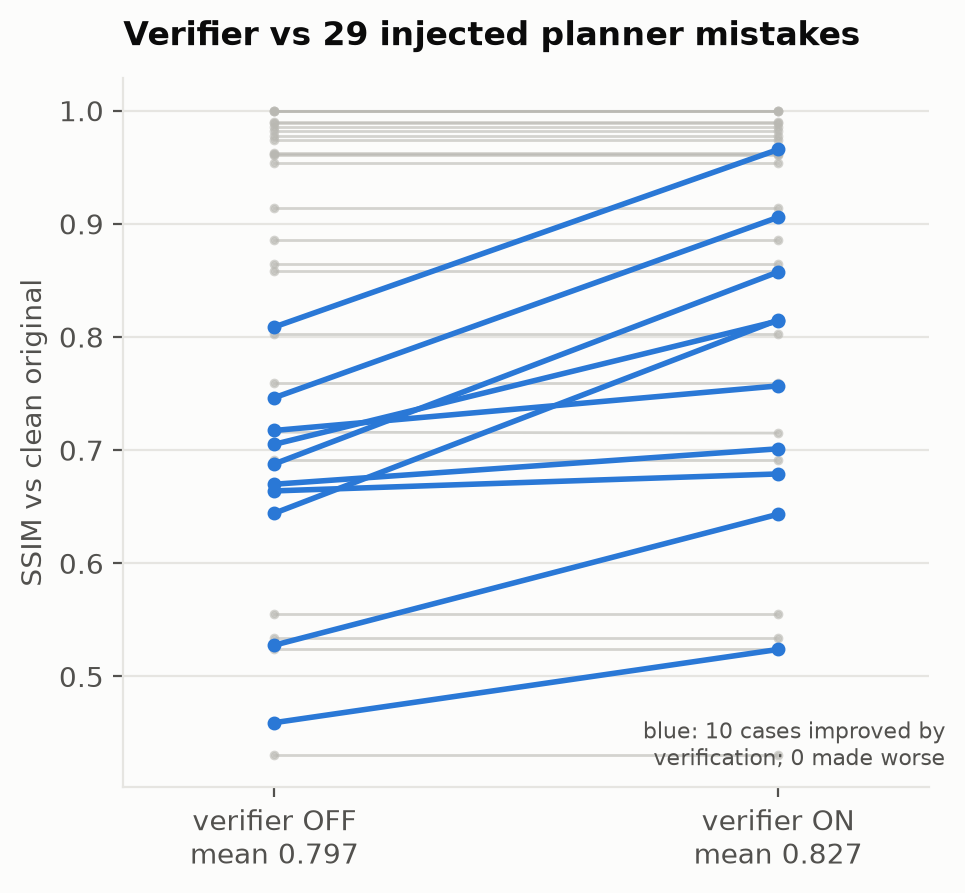
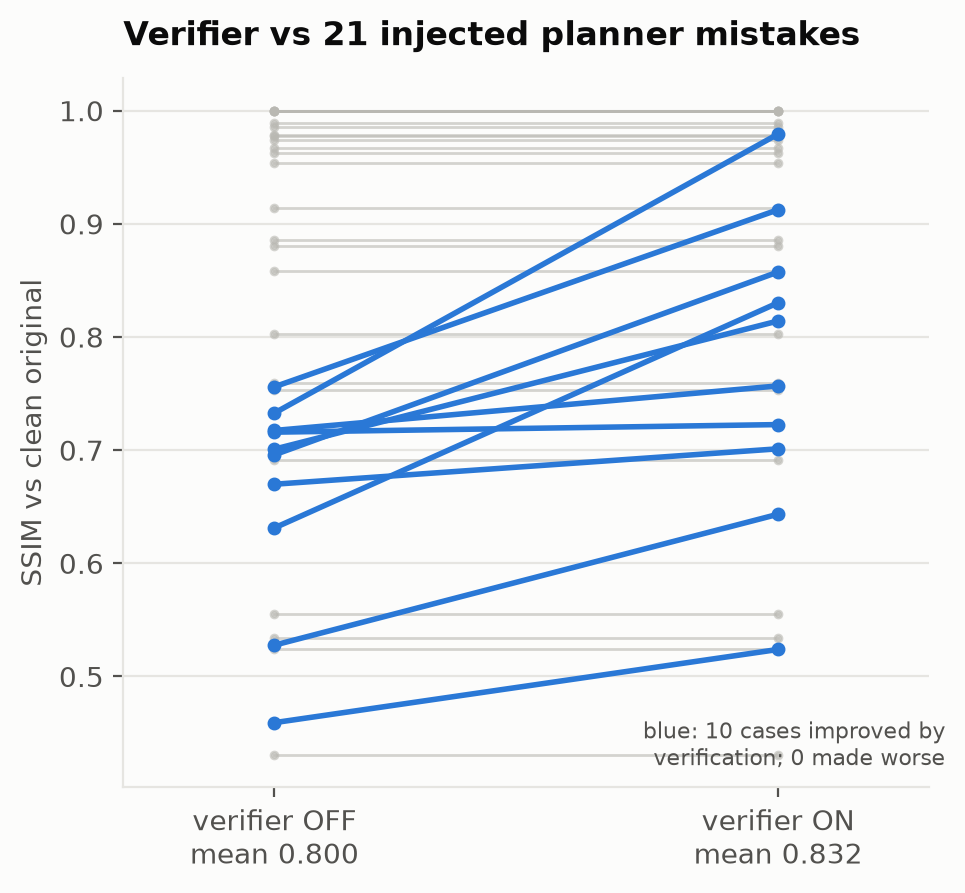
Update report, README, traces, video script and figures for confident-marks results
New numbers: SSIM 0.822 / PSNR 29.4 automatic, 0.834 / 29.5 with human;
undamaged control 1.000 with no steps; no-harm 97%, task success 83%;
verifier ablation 0.832 vs 0.800 (21 mistakes, 10 helped, 0 hurt);
105 simulated LLM failures, 35/35 complete. Report gains section 6.5 on the
false-detection fix (including the failed first attempt); limitations now
state that the cutoff is tuned on synthetic high-contrast marks.

diff --git a/docs/REPORT.md b/docs/REPORT.md
@@ -18,15 +18,15 @@ to check that the repair helped without doing harm. When a repair could change
 what the photo really shows, it **asks a person** instead of guessing.
 
 On 35 seeded test cases (5 public-domain images × 7 damage types), ReVive raises
-mean SSIM against the clean original from 0.680 (damaged) to **0.818**, where a
+mean SSIM against the clean original from 0.680 (damaged) to **0.822**, where a
 naive "run every filter once" pipeline drops it to 0.672. On undamaged photos
-ReVive leaves the image essentially untouched (**SSIM 0.994**), while the naive
-pipeline drops it to 0.75.
+ReVive applies no steps at all (**SSIM 1.000**), while the naive pipeline drops
+it to 0.75.
 
-When a test planner injects 29 over-strong decisions, the verifier rejects the
-harmful steps and recovers almost all the lost quality: mean SSIM is 0.797 with
-the verifier off, **0.827** with it on, and 0.830 with no mistakes at all. Across
-114 simulated LLM failures, every restoration still completed.
+When a test planner injects 21 over-strong decisions, the verifier rejects the
+harmful steps and recovers almost all the lost quality: mean SSIM is 0.800 with
+the verifier off, **0.832** with it on, and 0.834 with no mistakes at all. Across
+105 simulated LLM failures, every restoration still completed.
 
 ## 2. Problem and users
 
@@ -56,7 +56,7 @@ Its design rules come from how a restorer works:
 
 | measurement | method (OpenCV 5) | what it signals |
 |---|---|---|
-| `scratch_coverage` | `absdiff(gray, medianBlur(gray, 7))`, noise-scaled threshold, `connectedComponentsWithStats` shape rules (long and ≤ 2.5 px wide = scratch; small round = dust), `dilate` | share of the photo covered by thin marks; also yields the repair mask |
+| `scratch_coverage` | `absdiff(gray, medianBlur(gray, 7))`, noise-scaled threshold, `connectedComponentsWithStats` shape rules (long and ≤ 2.5 px wide = scratch; small round = dust), `dilate`. Only **confident** marks count: those standing out ≥ 4.5× from the local texture (`blur`-based local std of the median image) | share of the photo covered by confident marks; the full mask is what gets repaired |
 | `noise_sigma` | Immerkaer's estimator via `filter2D` | film grain |
 | `black_point` | 1st percentile of L in `cvtColor(BGR2LAB)` | fading (lifted blacks) |
 | `highlight_cast` | LAB a/b offset of the brightest 10% | ageing tint |
@@ -185,8 +185,8 @@ the account, end-to-end latency through CloudFront.
 |---|---|---|
 | damaged input | 0.680 | 25.1 |
 | naive fixed pipeline | 0.672 | 18.8 |
-| **ReVive, automatic** | **0.818** | **27.3** |
-| ReVive + human answers | 0.830 | 27.5 |
+| **ReVive, automatic** | **0.822** | **29.4** |
+| ReVive + human answers | 0.834 | 29.5 |
 
 ![quality by damage type](figures/ssim_by_profile.png)
 
@@ -195,7 +195,7 @@ pipeline (0.51) beats automatic ReVive (0.43), and ReVive only ties it with
 human approval (0.51). The agent refuses to inpaint about 10% of the photo on
 its own, which is by design. Even approved, its gentler repairs leave more
 damage than an aggressive filter chain. On **undamaged** photos ReVive applies
-almost nothing (0.994), while the naive pipeline does visible harm (0.75).
+nothing at all (1.000), while the naive pipeline does visible harm (0.75).
 
 ### 6.2 Agentic behaviour (`eval/agentic.py`)
 
@@ -203,9 +203,11 @@ almost nothing (0.994), while the naive pipeline does visible harm (0.75).
 |---|---|
 | runs completed automatically | 26 / 35 (74%) |
 | escalated to a human | 9 / 35 (5 mask approvals, 4 colour questions) |
-| task success (no harm vs input and final damage score ≤ 1) | 77% |
-| runs where re-measurement found more damage after a step | 20 / 35 (see 7, false positives) |
-| steps kept / rejected (normal planner) | 70 / 0 |
+| no harm (SSIM not lower than the damaged input) | 97% |
+| task success (no harm and final damage score ≤ 1) | 83% |
+| runs where re-measurement found more damage after a step | 19 / 35 (see 7) |
+| inpaint steps on photos with no scratches | 0 of 10 |
+| steps kept / rejected (normal planner) | 61 / 0 |
 
 ![outcomes](figures/outcomes.png)
 
@@ -216,17 +218,17 @@ the settings with over-strong ones on half of its first attempts:
 - inpaint radius 9 with Navier-Stokes;
 - full-strength colour correction.
 
-It injected 29 mistakes over the same 35 cases.
+It injected 21 mistakes over the same 35 cases.
 
 | | mean SSIM | photos not harmed |
 |---|---|---|
-| verifier off | 0.797 | 85.7% |
-| **verifier on** | **0.827** | **91.4%** |
-| reference: no mistakes | 0.830 | 91.4% |
+| verifier off | 0.800 | 91.4% |
+| **verifier on** | **0.832** | **97.1%** |
+| reference: no mistakes | 0.834 | 97.1% |
 
 ![verifier ablation](figures/verifier_ablation.png)
 
-- The verifier rejected 13 steps, and every gentler retry succeeded.
+- The verifier rejected 12 steps, and every gentler retry succeeded.
 - It improved 10 cases and made none worse.
 - These checks were added *because* this experiment exposed a gap. The first
   version of the verifier (target improved + structure) accepted every injected
@@ -234,7 +236,7 @@ It injected 29 mistakes over the same 35 cases.
 
 **Failure handling 2: the LLM fails.** The real `BedrockPlanner` was run against
 a fake client that returned broken JSON, prose, unknown tools and blocked tools,
-or timed out (114 failures across 35 runs). All 35 runs completed. Every result
+or timed out (105 failures across 35 runs). All 35 runs completed. Every result
 was pixel-identical to the heuristic planner's, and every fallback is labelled
 in the trace.
 
@@ -255,10 +257,13 @@ re-measurement):
 
 | step | median latency |
 |---|---|
-| colour | 27 ms |
-| tones | 33 ms |
-| inpainting | 27 ms |
-| denoise | 456 ms (p95 1.0 s) |
+| colour | 16 ms |
+| tones | 16 ms |
+| inpainting | 14 ms |
+| denoise | 163 ms (p95 178 ms) |
+
+Measured on an Apple M-series laptop; an earlier run on the same machine under
+load measured 2–3× higher. The Graviton numbers are in 6.4.
 
 Non-local-means denoising dominates the run time.
 
@@ -281,7 +286,33 @@ A note before the numbers: stock OpenCV 5 wheels already include KleidiCV, and
 denoising dominates ReVive's runtime. So any COOL gain depends on how well it
 accelerates `fastNlMeansDenoisingColored`, and we will report whatever we measure.
 
-### 6.5 What we tried that did not work
+### 6.5 Fixing false scratch detections
+
+The first full evaluation showed that thin real detail was being flagged as
+scratches: 9 of 19 kept inpainting steps were on photos with no marks (a launch
+tower lattice, tripod legs, a cup rim). We separated two questions:
+- **whether** to repair, decided from *confident* marks only;
+- **what** to repair, using the full mask, so recall is unchanged.
+
+A mark is confident when it stands out strongly from the texture right around it.
+Per pixel, that is `|image − median| / (local std of the median image + 2)`,
+averaged over the mark and required to be ≥ 4.5.
+
+| | before | after |
+|---|---|---|
+| mean SSIM, automatic / with human | 0.818 / 0.830 | **0.822 / 0.834** |
+| mean PSNR, automatic | 27.3 dB | **29.4 dB** |
+| undamaged control | 0.994 | **1.000** |
+| inpaint steps on photos with no marks | 9 of 19 | **0 of 10** |
+| aged/scratched cases still repaired | 10 / 10 | 10 / 10 |
+
+Our first version measured contrast against a ring around the whole mark. That
+hid long scratches that cross many regions, and the flagship demo photo stopped
+being repaired. Measuring per pixel fixed it. Cutoffs from 4.0 to 5.0 give
+identical results, and 6.0 starts missing real scratches, so 4.5 sits in the
+middle of that plateau.
+
+### 6.6 What we tried that did not work
 
 **Joining scratch fragments with `HoughLinesP`.** The idea was to recover
 scratches that break up over similar tones. It found texture on clean photos
@@ -290,14 +321,13 @@ gained +0.004 on heavy damage, so it was not shipped.
 
 ## 7. Limitations
 
-- **Thin real detail is mistaken for scratches.** Launch-tower lattice, tripod
-  legs and cup rims all trigger it.
-  - 9 of the 19 kept inpainting steps are on photos whose damage profile adds no
-    marks.
-  - 11 of 16 "revealed scratches" events are on such photos.
-  - Each change is small (the control still scores 0.994), but it is a real false
-    positive. "Revealed" in the trace means "measured higher after this step",
-    not "verified hidden damage".
+- **The scratch cutoff is tuned on synthetic marks.** Our seeded scratches are
+  high-contrast. Faint real scratches in busy texture may not count as
+  confident, and then they are not repaired. Real prints are needed to check this.
+- **"Revealed" means "measured higher after this step"**, not "verified hidden
+  damage". 6 of the 8 "revealed scratches" events happen on photos with no marks.
+  Since 6.5 they no longer trigger a repair, but the badge still appears in the
+  trace.
 - **Denoising softens texture** (wood grain, fur) while still passing the
   verifier.
 - **Heavy damage:** the conservative agent restores less than an aggressive

diff --git a/docs/trace-example.md b/docs/trace-example.md
@@ -10,14 +10,16 @@ by clicking the **Faded portrait** and **Warm café table** samples.
 
 | step | planner's reason (from OpenCV numbers) | verifier | what the re-measurement changed |
 |---|---|---|---|
-| 0 | perceive: `highlight_cast 13.6`, `black_point 0.239`, `noise_sigma 7.1`, `scratch_coverage 0.89%` | | starting plan: colour, then tones |
+| 0 | perceive: `highlight_cast 13.6`, `black_point 0.239`, `noise_sigma 7.1`, `scratch_coverage 0.52%` (confident marks) | | starting plan: colour, then tones |
 | 1 `correct_colour` 0.9 | "cast 13.58 with faded blacks (0.239) = ageing tint" | kept: cast 13.6 → 8.3, structure 0.999 | nothing new |
-| 2 `enhance_contrast` clip 0 | "black_point 0.239 > 0.15: blacks faded" | kept: black point → 0.024; **noise growth 1.00×**, so the extra grain is revealed, not created | **revealed:** grain 7.1 → 10.3 and scratches 0.89% → 1.78% |
-| 3 `inpaint_scratches` | "scratch_coverage 0.0178 > 0.0045" | kept: coverage → 0.02% | uses the **new** mask |
+| 2 `enhance_contrast` clip 0 | "black_point 0.239 > 0.15: blacks faded" | kept: black point → 0.024; **noise growth 1.00×**, so the extra grain is revealed, not created | **revealed:** grain 7.1 → 10.3 and confident scratches 0.52% → 0.81% |
+| 3 `inpaint_scratches` | "scratch_coverage 0.0081 > 0.0045" | kept: coverage → 0% | uses the **new** full mask |
 | 4 `denoise` 10.1 | "noise_sigma 10.13 > 6.0" (strength set from the re-measured grain, not the starting 7.1) | kept: method noise 0.91× (removed about the estimated grain, not detail) | |
 
 **Why it matters.** The damage is synthetic and seeded, so the true scratch
-and dust positions are known (green in the figure).
+and dust positions are known (green in the figure). The table measures the full
+repair mask; `scratch_coverage` above counts only the confident marks that
+justify repairing.
 
 | | mask size | precision (on real marks) | recall (real marks found) |
 |---|---|---|---|
@@ -38,10 +40,10 @@ over-strong settings. Case: astronaut, faded.
 |---|---|---|
 | 1 | `enhance_contrast` clip 4.0 *(injected mistake)* | **rejected**: "created grain: noise grew 1.56× relative to the tones (max 1.15)". Its own target improved (black point fixed), so the old check would have kept it |
 | 2 | `enhance_contrast` clip 0.6 (gentler retry) | kept: noise growth 1.05× |
-| 3 | `inpaint_scratches` | kept |
 
-Across 35 cases, the planner injected 29 mistakes. With the verifier on, mean SSIM was 0.827 (no mistakes: 0.830).
-With it off, mean SSIM was 0.797. It helped in 10 cases and made none worse.
+Across 35 cases, the planner injected 21 mistakes. With the verifier on, mean
+SSIM was 0.832 (no mistakes: 0.834). With it off, mean SSIM was 0.800. It helped
+in 10 cases and made none worse.
 
 ## 3. A measurement turns into a question instead of an action (Warm café table)
 
@@ -49,7 +51,7 @@ Perception reports `highlight_cast 21.9` with `black_point 0.012`. Aged prints
 fade their blacks as well as tinting their highlights. Here the blacks are
 intact, so the tint may be the real colour of the scene (coffee, wood). The
 planner does **not** correct it. It pauses that repair and asks the person,
-showing the measured evidence. The other repairs (grain, dust) carry on. The
+showing the measured evidence. The other repair (grain) carries on. The
 answer re-runs the agent with `restore(img, answers={"correct_colour": …})`.
 
 ## Honest notes
@@ -57,8 +59,8 @@ answer re-runs the agent with `restore(img, answers={"correct_colour": …})`.
 - In the first example the starting measurement already called for inpainting.
   What the re-measurement changed was **what** got inpainted (the mask) and the
   denoise strength.
-- On profiles that add no scratches, the same re-measurement sometimes flags
-  thin real detail (tower lattice, tripod legs, a cup rim) as "revealed
-  scratches", and the agent inpaints it. This is a known false positive, listed
-  in the report's limitations. We swapped out a demo sample whose description
-  depended on it.
+- On profiles that add no scratches, the re-measurement can still rise after a
+  tone step, because thin real detail gets more contrast. Earlier versions then
+  inpainted that detail. Since repairs are decided from confident marks only
+  (report section 6.5), no photo without marks is inpainted. The "revealed" badge
+  can still appear in its trace.

diff --git a/docs/VIDEO_SCRIPT.md b/docs/VIDEO_SCRIPT.md
@@ -20,7 +20,7 @@ CloudFront), voice-over recorded separately. **[bracketed]** = what's on screen.
 > between an agent and a filter chain."
 
 ### 0:25–0:50 · Result
-**[Drag the before/after slider slowly. Point at the damage score 5.7 → 0.0.]**
+**[Drag the before/after slider slowly. Point at the damage score 4.6 → 0.0.]**
 
 > "Colour cast removed, tones restored, scratches filled, grain reduced, with every
 > decision explained in the log."
@@ -32,7 +32,7 @@ CloudFront), voice-over recorded separately. **[bracketed]** = what's on screen.
 > inventing pixels, so ReVive shows me exactly what it wants to repair and asks
 > first."
 
-**[Click "Approve repair mask". The re-run streams; score 32.7 → 5.0.]**
+**[Click "Approve repair mask". The re-run streams; score 27.0 → 5.0.]**
 
 **[Click "Warm café table". The colour question appears.]**
 
@@ -43,9 +43,9 @@ CloudFront), voice-over recorded separately. **[bracketed]** = what's on screen.
 ### 1:40–2:10 · Do no harm
 **[Click "Undamaged control". Zero steps; "Restored" with 0 repairs.]**
 
-> "And when nothing is wrong, it does nothing. On undamaged photos ReVive keeps
-> 99.4 percent structural similarity. A naive enhance-everything pipeline drops
-> them to 75."
+> "And when nothing is wrong, it does nothing. On undamaged photos ReVive makes
+> zero changes. A naive enhance-everything pipeline drops them to 75 percent
+> structural similarity. And it never repaints a photo that has no scratches."
 
 ### 2:10–2:50 · Architecture
 **[Show docs/architecture.svg, then docs/agent-workflow.svg; highlight boxes as you speak.]**
@@ -72,7 +72,7 @@ Graviton. Here's what it bought us." **[benchmark table]**
 > like over-strong contrast and over-strong denoising. With the verifier off,
 > quality drops to 0.80. With it on, the agent rejects those steps, retries
 > gently, and gets 0.83, almost the same as with no mistakes. We also hit the LLM
-> planner with 114 simulated failures, and every restoration still finished."
+> planner with 105 simulated failures, and every restoration still finished."
 
 **[docs/figures/trace-astronaut-aged.png]**
 
@@ -83,10 +83,9 @@ Graviton. Here's what it bought us." **[benchmark table]**
 ### 3:50–4:15 · Honest limits
 **[Bulleted slide]**
 
-> "It isn't perfect. Thin real details, like a tripod leg, can be mistaken for
-> scratches. Heavy damage is restored more conservatively than an aggressive
-> filter chain. And we've only tested on synthetic damage so far. It's all in
-> the report."
+> "It isn't perfect. Heavy damage is restored more conservatively than an
+> aggressive filter chain, and faint scratches in busy texture can be missed. And
+> most of our numbers come from synthetic damage. It's all in the report."
 
 ### 4:15–4:30 · Team and close
 **[Face cam or photo + name card: Samaun Mahmud, solo, second-year CS (AI)]**

diff --git a/README.md b/README.md
@@ -42,15 +42,17 @@ every step:
 |---|---|---|
 | Damaged input | 0.680 | 25.1 |
 | Naive fixed pipeline (every tool once) | 0.672 | 18.8 |
-| **ReVive (automatic)** | **0.818** | **27.3** |
-| ReVive + simulated human answers | 0.830 | 27.5 |
+| **ReVive (automatic)** | **0.822** | **29.4** |
+| ReVive + simulated human answers | 0.834 | 29.5 |
 
-- **Do no harm:** on undamaged photos ReVive keeps SSIM at **0.994**; the naive
-  pipeline drops them to 0.75.
-- **Verifier vs planner mistakes:** with 29 injected over-strong decisions, mean
-  SSIM is 0.797 with the verifier off and **0.827** with it on (0.830 with no
+- **Do no harm:** on undamaged photos ReVive applies **no steps at all** (SSIM
+  1.000); the naive pipeline drops them to 0.75. It also never inpaints a photo
+  that has no scratches (0 of 10 inpaint steps, down from 9 of 19 before the
+  confident-marks check).
+- **Verifier vs planner mistakes:** with 21 injected over-strong decisions, mean
+  SSIM is 0.800 with the verifier off and **0.832** with it on (0.834 with no
   mistakes). It helped in 10 cases and hurt in none.
-- **LLM failure handling:** across 114 simulated Bedrock failures (timeouts,
+- **LLM failure handling:** across 105 simulated Bedrock failures (timeouts,
   broken JSON, unknown and blocked tools), **35/35** runs completed, with results
   identical to the heuristic planner's.
 - **Outcomes:** 26/35 runs complete automatically; 9 ask a person (5 mask
@@ -58,7 +60,8 @@ every step:
 - **Known weak spots:**
   - heavy damage, where the naive pipeline scores 0.51 vs 0.43 automatic and 0.51
     with approval;
-  - thin real detail mistaken for scratches;
+  - the scratch threshold is tuned on synthetic, high-contrast marks, so faint
+    real scratches may be missed;
   - synthetic damage only so far.
 
   See [docs/REPORT.md §7](docs/REPORT.md#7-limitations).
